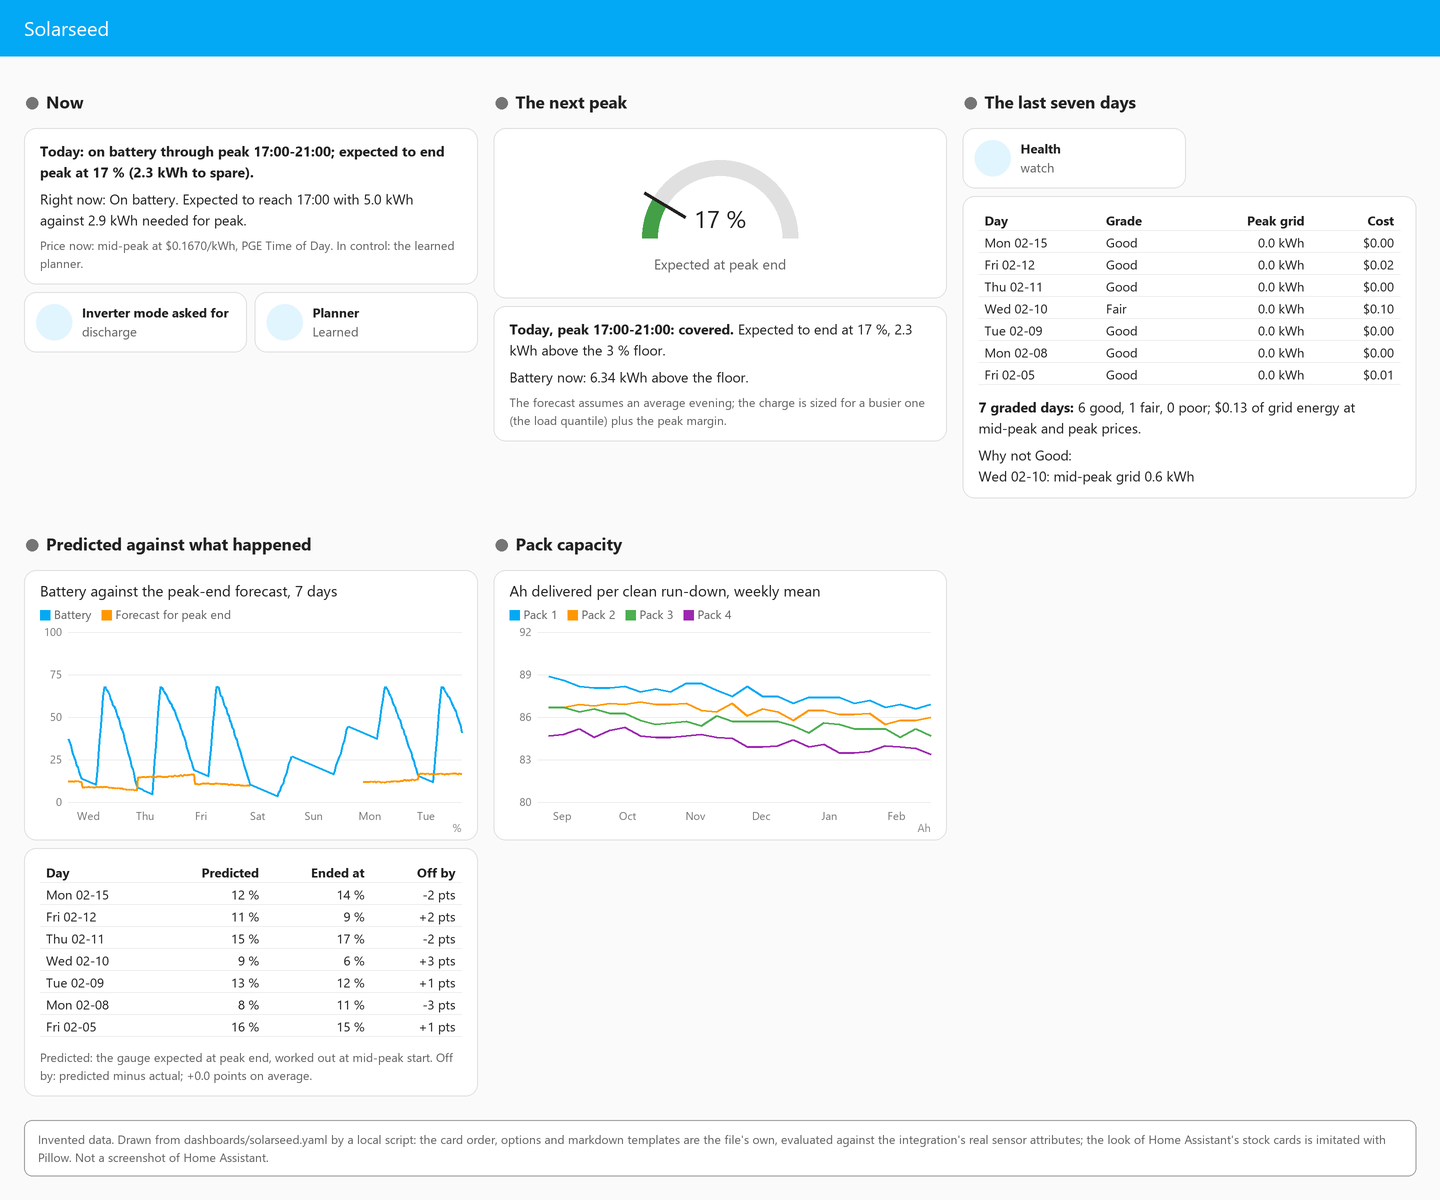
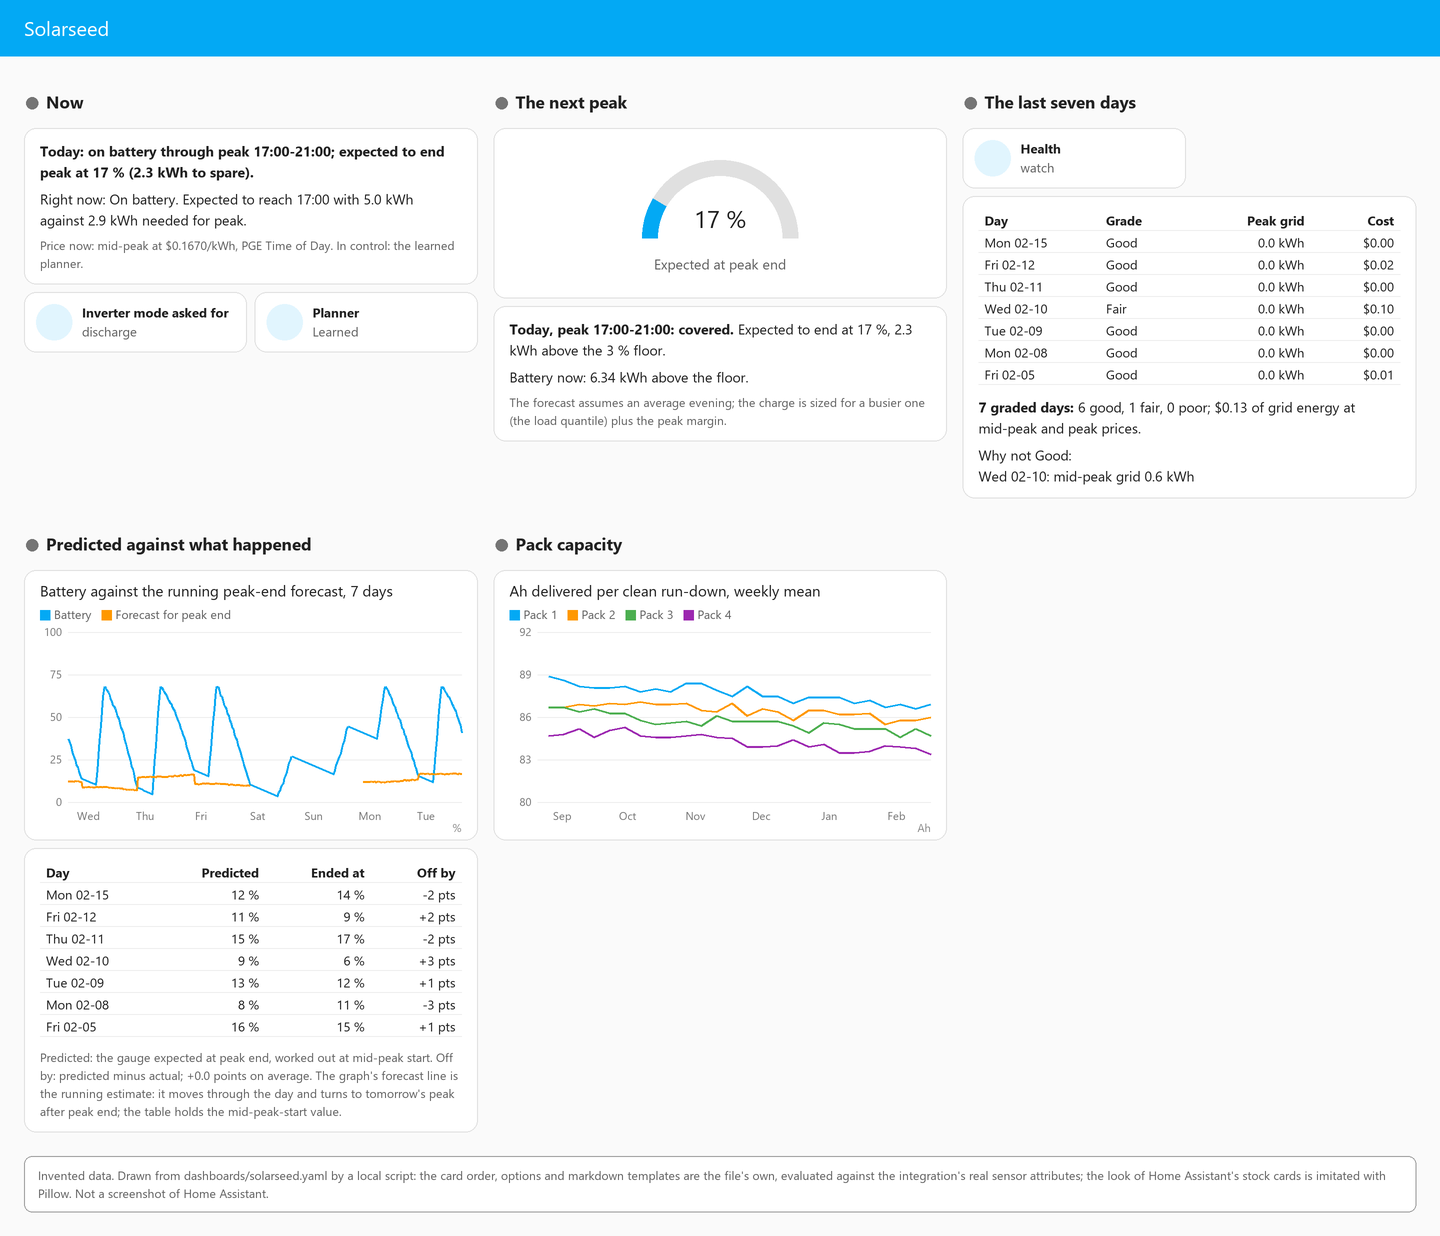
P4 review: pack section hides on unknown and a missing entity; shadow tile under classic; gauge without fixed bands; scoring time from the tariff; a missing figure is a dash; running forecast named; roadmap and lesson

diff --git a/tests/test_dashboard.py b/tests/test_dashboard.py
@@ -489,7 +489,7 @@ class TestTemplatesRender:
             check_text(text)
         assert out[0].startswith("The learned planner has not decided anything yet.")
         assert out[1].startswith("**No peak forecast:** not available.")
-        assert out[2] == "No day graded yet. Each TOU day is graded at 21:10 from the grid meter."
+        assert out[2] == "No day graded yet. Each TOU day is graded ten minutes after peak end from the grid meter."
         assert out[3].startswith("No peak end recorded yet.")
 
     def test_a_short_afternoon_with_a_week_of_grades(self):
@@ -542,5 +542,79 @@ class TestTemplatesRender:
         _, _, week, pred = render_all(ha_world(coord))
         check_text(week)
         check_text(pred)
-        assert "| Wed 11-18 | Good | 0.0 kWh | $0.00 |" in week
+        # a missing figure is a dash, never a 0 that reads as "nothing bought"
+        assert "| Wed 11-18 | Good | - | - |" in week
+        assert "$0.00 of grid energy" in week                       # the total counts only the days that have one
         assert "| Wed 11-18 | - | 11 % | - |" in pred
+
+    def test_a_graded_day_shows_its_figures(self):
+        rt, coord, _ = planner_at(at(TUESDAY, 10), 70)
+        coord.store._data["days"] = invented_days(coord, n=1, reasons=False)
+        _, _, week, _ = render_all(ha_world(coord))
+        assert "| Mon 02-15 | Good | 0.0 kWh | $0.00 |" in week
+
+
+# --- the conditional cards, with the frontend's rules ----------------------------------------
+#
+# home-assistant/frontend, src/panels/lovelace/common/validate-condition.ts, checkStateCondition:
+# an entity that does not exist reads as "unknown"; `state` / `state_not` are a string or a list.
+
+
+def condition_ok(cond: dict, world: dict) -> bool:
+    state = world[cond["entity"]][0] if cond["entity"] in world else "unknown"
+    if "state" in cond:
+        want = cond["state"]
+        return state in want if isinstance(want, list) else state == want
+    if "state_not" in cond:
+        avoid = cond["state_not"]
+        return state not in avoid if isinstance(avoid, list) else state != avoid
+    return True
+
+
+def shown(card: dict, world: dict) -> bool:
+    return all(condition_ok(c, world) for c in card["conditions"])
+
+
+def conditionals() -> dict[str, dict]:
+    """The conditional cards by what they wrap: heading text, tile name or card type."""
+    out = {}
+    for c in cards(load_dashboard()):
+        if c["type"] != "conditional":
+            continue
+        inner = c["card"]
+        key = inner.get("name") or inner["type"]
+        if inner["type"] == "vertical-stack":
+            key = inner["cards"][0]["heading"]
+        out[key] = c
+    return out
+
+
+class TestConditions:
+    def test_the_dashboard_promises_no_fixed_hour(self):
+        text = DASHBOARD.read_text(encoding="utf-8")
+        assert "21:10" not in text and "severity" not in text
+
+    def test_pack_section_hides_without_a_pack(self):
+        pack = conditionals()["Pack capacity"]
+        entity = pack["conditions"][0]["entity"]
+        assert not shown(pack, {})                                   # no packs configured: entity absent
+        assert not shown(pack, {entity: ("unknown", None)})          # configured, no clean run-down yet
+        assert not shown(pack, {entity: ("unavailable", None)})
+        assert shown(pack, {entity: ("86.3", None)})
+
+    def test_forecast_gauge_hides_while_unknown(self):
+        gauge = conditionals()["Expected at peak end"]
+        entity = gauge["conditions"][0]["entity"]
+        for state in ("unknown", "unavailable"):
+            assert not shown(gauge, {entity: (state, None)})
+        assert not shown(gauge, {})
+        assert shown(gauge, {entity: ("17", None)})
+
+    def test_the_mode_tile_says_shadow_under_classic(self):
+        c = conditionals()
+        asked, shadow = c["Inverter mode asked for"], c["Shadow plan (not in control)"]
+        planner = asked["conditions"][0]["entity"]
+        assert planner.startswith("select.") and asked["card"]["entity"] == shadow["card"]["entity"]
+        assert shown(asked, {planner: ("learned", None)}) and not shown(shadow, {planner: ("learned", None)})
+        assert shown(shadow, {planner: ("classic", None)}) and not shown(asked, {planner: ("classic", None)})
+        assert not shown(asked, {})                                  # select missing: never claim control

diff --git a/ROADMAP.md b/ROADMAP.md
@@ -1,11 +1,11 @@
 # Solarseed Peak Shaver roadmap: one chunk at a time, to 1.0
 
-**Next, paste this** (P4 built on 2026-11-24 in f443a46, on P3; it needs a fresh review
-before 0.9.1 and 0.9.2 ship together. 0.9.0 still has to be on the box before Wednesday
-11-25 evening for Thanksgiving):
+**Next, paste this** (P4 reviewed 2026-11-24, go after small fixes, made on `chunk-P4`;
+0.9.1 and 0.9.2 ship together when Dan says so, nothing in them has to reach the box before
+P5. 0.9.0 still has to be on the box before Wednesday 11-25 evening for Thanksgiving):
 
 ```
-review the last chunk per REVIEW.md
+work on the next chunk in ROADMAP.md
 ```
 
 That sentence and this path are all an agent gets. The other half is [REVIEW.md](REVIEW.md).
@@ -362,6 +362,15 @@ doing, and that `tools/analyze_performance.py` prices with its own constants.
 **Defaults:** solar forecast stays Solcast-shaped (`detailedHourly` / `detailedForecast`);
 say so plainly in the form instead of building a second forecast adapter.
 
+**From the P4 review:** a new install should start on `learned` (this chunk's first line),
+so the dashboard's "Shadow plan (not in control)" tile is the exception, not the first
+thing a stranger sees. The dashboard has still never been pasted into a real Home
+Assistant; if P5 gets a browser on a box, paste `dashboards/solarseed.yaml` and check, in
+this order: the markdown cards render (`config.ids`), the top-level `solarseed_ids` key
+survives a save, no card shows "Entity not available", the pack section is hidden with no
+packs (outside edit mode; conditional cards always show while editing), and the heading
+cards exist (HA 2024.10+). Say in the README which HA version the dashboard needs.
+
 **Dan should look at:** a walk through "add integration" on a scratch entry, if he is
 willing to remove it afterwards; otherwise the reviewer reads every form string.
 
@@ -628,3 +637,35 @@ then the reviewer's `Review:` line.
   evening and its absence on Saturday; the 7-day table against the daily messages; the
   history graph after a few days; that no card shows "Entity not available" or a template
   error. Taste: Dan's reaction verbatim into REVIEW.md section 3.
+  Review (2026-11-24, go after small fixes, made): checked f443a46 and 7b48ec8 against
+  930954d. Read `outlook.py`, the dashboard file, `test_dashboard.py` and the runtime,
+  sensor, health and docs diffs whole; viewed `docs/dashboard.png`. 653 passed, 7 skipped;
+  690 with voluptuous and jinja2; strings.json equals en.json; `const.py` and
+  `manifest.json` agree; the diff is ASCII; `p4_replay_compare.py` gives identical stdout
+  (45 lines, 83 events) P3 against P4; the non-finite fix matches the coordinator's
+  `isfinite` readers and the test feeds nan, inf, -inf, empty and unknown through the
+  real tick. Walked: a mid-peak shortfall (the "tops up before peak" line shows only in
+  mid-peak, since `shortfall_kwh` is set there alone), a weekend, Thanksgiving, classic in
+  control, a graded day with no grid readings but frozen data (graded Poor with 0.0 kWh and
+  $0.00, as the daily message already says it; a health question for the data review, not
+  the card's). Fixed (one commit, `P4 review:`): the pack section's condition had only
+  `state_not: unavailable`, and the frontend's `checkStateCondition` reads a missing entity
+  as `unknown`, so an install with no packs showed an empty chart; now both states are
+  excluded (also hides a configured pack before its first run-down). The mode tile said
+  "Inverter mode asked for" under classic, when the Learned Plan is a shadow; it is now a
+  conditional pair on the planner select. The gauge's fixed green at 15 contradicted "not
+  covered" with a floor above 15 (the option runs to 50); the colour bands and needle are
+  gone, the card beside says covered or not. "Graded at 21:10" became "ten minutes after
+  peak end" (the scoring is tariff-derived). A record without `cost_usd` or
+  `grid_peak_kwh` showed "$0.00" and "0.0 kWh"; now a dash, and the total counts only days
+  that have one. The history graph is titled the running forecast and the small print says
+  the table holds the mid-peak-start value. Tests for each with the frontend's condition
+  rules; the drawing script follows the file (missing entity reads unknown, no needle or
+  bands) and the picture is redrawn. 657 passed, 8 skipped; 695 fully enabled. Not
+  verified: any card in a real Home Assistant frontend (no HA on this machine, no browser
+  in this session; the picture is a Pillow imitation and says so). Believed from the
+  frontend source, not seen: `config.ids` in markdown templates, unknown top-level and
+  card keys kept on save (the markdown card's visual editor may fall back to YAML for the
+  `ids` key, cosmetic), `<small>` and tables in the markdown card, `strptime` and
+  `selectattr(..., 'number')` in HA's sandbox. Owner taste inspection pending. Nothing in
+  0.9.2 needs to reach the box before P5.

diff --git a/docs/how-it-works.md b/docs/how-it-works.md
@@ -470,21 +470,28 @@ and the third-party packs' "Ah Between" sensors. It answers, in this order:
 
 1. **Now:** the Plan Summary sentence, the planner's reason for what it is doing, the
    price period and price now, the tariff, and a warning while battery data is frozen;
-   tiles for the mode asked of the inverter and the planner select.
-2. **The next peak:** a gauge of the Peak End Forecast (hidden while it is unknown), and
+   tiles for the Learned Plan's mode (named "Inverter mode asked for" while the learned
+   planner is in control, "Shadow plan (not in control)" under classic) and the planner
+   select.
+2. **The next peak:** a gauge of the Peak End Forecast (hidden while it is unknown; no
+   colour bands, since the floor is an option and the card beside it says covered or not), and
    whether that peak is covered: the expected gauge at peak end and the kWh above the
    floor, or that the floor is expected first; the energy above the floor now; what
    running short would cost (`shortfall_cost_usd`, `handover_cost_usd`); or why there is
    no forecast.
 3. **The last seven days:** the Health tile and a table of the last seven graded days from
    the Health sensor's `last_7_days`: grade, grid kWh in peak and `cost_usd` (dollars from
-   the health records, never from a constant in a card), the counts and the week's total,
-   why each day that was not Good was not, and the review reasons.
+   the health records, never from a constant in a card; a missing figure is a dash, not
+   0), the counts and the week's total, why each day that was not Good was not, and the
+   review reasons.
 4. **Predicted against what happened:** a 7-day history graph of the battery gauge with the
-   Peak End Forecast, and a table of each graded day's prediction made at mid-peak start
+   running Peak End Forecast (it moves through the day and turns to tomorrow's peak after
+   peak end), and a table of each graded day's prediction made at mid-peak start
    (`pred_gauge_peak_end`) against the gauge at peak end, with the error and its average.
-5. **Pack capacity:** shown only when the first pack's capacity sensor exists: a
-   statistics graph (weekly mean, 180 days) of each pack's Ah per clean run-down.
+5. **Pack capacity:** shown only while the first pack's capacity sensor exists and has a
+   reading (the frontend reads a missing entity as `unknown`, so the condition excludes
+   both `unknown` and `unavailable`): a statistics graph (weekly mean, 180 days) of each
+   pack's Ah per clean run-down.
 
 `docs/dashboard.png` shows it with invented numbers. It is drawn by a local script, not
 photographed in Home Assistant: the card order, options and markdown templates are the

diff --git a/REVIEW.md b/REVIEW.md
@@ -174,3 +174,8 @@ One line per review, newest last.
   hours cannot be typed) were a boundary bug and a missed criterion, each under an hour to
   fix. Writing a limitation down does not make it a decision; and any "today's" default
   that runs after peak end is planning tomorrow, so walk it with tomorrow's hours.
+- 2026-11-24 (P4): a card is a reading too. The pack section's condition assumed a missing
+  entity reads `unavailable`; the frontend's `checkStateCondition` reads it as `unknown`,
+  so the section showed on every install without packs. For a frontend rule, read the
+  frontend source (`validate-condition.ts`, the card's `.ts`), not memory of the docs; and
+  an `or 0` in a template is the same 0-for-unknown bug as in a sensor.
